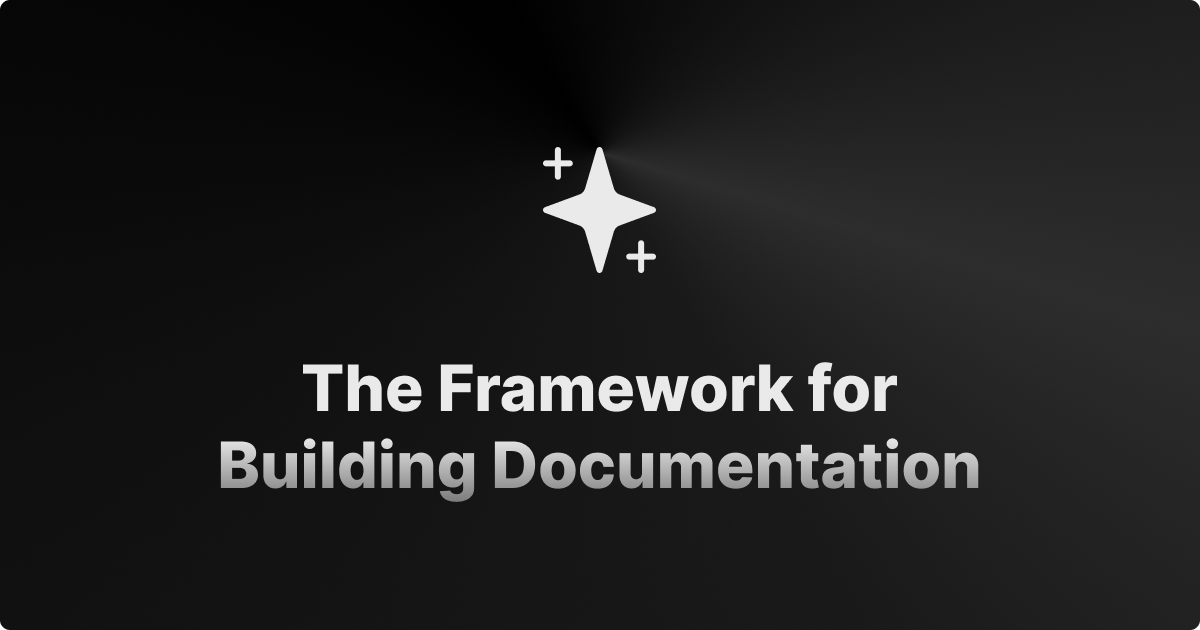
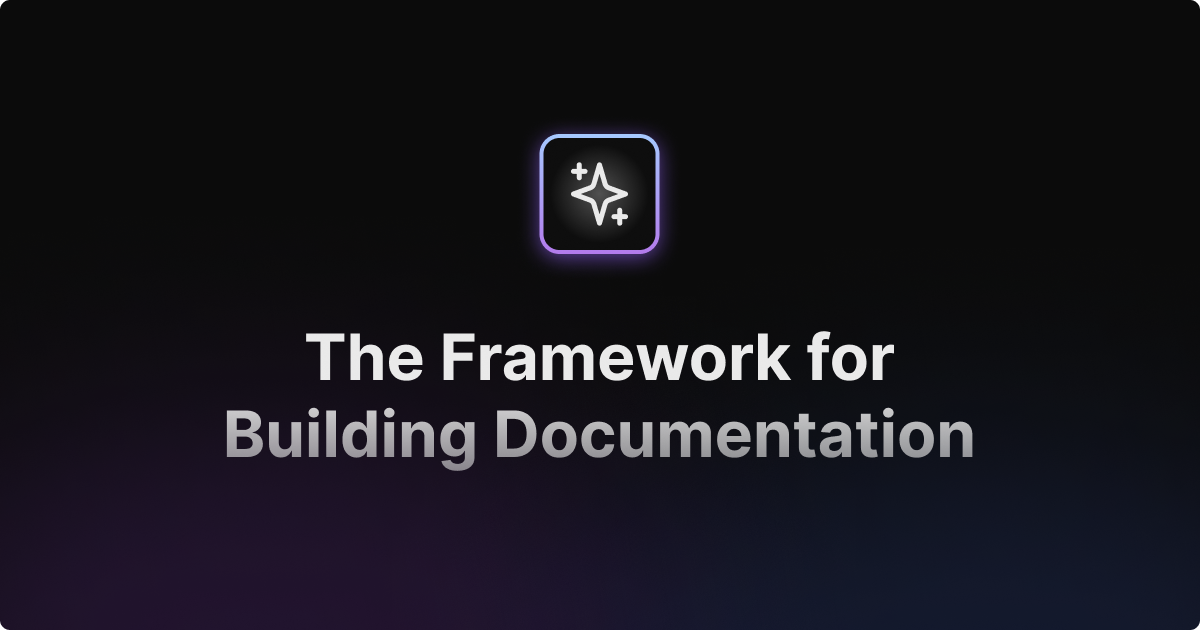
Docs: Update og image

Changed region(s): [[0.185, 0.181, 1.0, 0.8143], [0.0308, 0.8444, 0.4008, 1.0]]

diff --git a/apps/docs/app/page.tsx b/apps/docs/app/page.tsx
@@ -10,7 +10,6 @@ import {
   LibraryIcon,
   MoonIcon,
   RocketIcon,
-  StarIcon,
   TimerIcon
 } from 'lucide-react'
 import Image from 'next/image'
@@ -24,13 +23,10 @@ const separator = cva(
 export default function HomePage() {
   return (
     <main>
-      <div className="absolute inset-x-0 top-0 h-[400px] w-full -translate-y-8 z-[-1]">
-        <div className="h-full w-full bg-gradient-radial-top from-blue-600/50 animate-in fade-in duration-1000 opacity-50" />
+      <div className="absolute inset-x-0 top-0 h-[400px] [mask-image:radial-gradient(40%_60%_at_top,rgba(0,0,0,0.5),transparent)] animate-in fade-in duration-1000 opacity-50 z-[-1]">
+        <div className="w-full h-full bg-gradient-to-r from-purple-600 to-blue-600" />
       </div>
       <div className="container py-20 flex flex-col items-center text-center">
-        <div className="bg-gradient-to-b from-blue-300 shadow-md shadow-purple-400/50 rounded-lg mb-6 animate-star">
-          <StarIcon className="m-px p-3 w-12 h-12 bg-background text-foreground rounded-[inherit]" />
-        </div>
         <h1 className="text-3xl font-bold mb-6 sm:text-5xl">Build Your Docs</h1>
         <p className="text-muted-foreground max-w-xl sm:text-lg">
           Next Docs is a library and full-powered framework for building

diff --git a/apps/docs/tailwind.config.js b/apps/docs/tailwind.config.js
@@ -64,16 +64,6 @@ module.exports = {
             transform: 'translate(-50%,-50%) rotate(0)'
           }
         },
-        star: {
-          '0%, 100%': {
-            transform: 'translateY(0)',
-            opacity: 1
-          },
-          '50%': {
-            transform: 'translateY(-10px)',
-            opacity: 0.8
-          }
-        },
         heart: {
           '0%': {
             'stroke-dashoffset': 0
